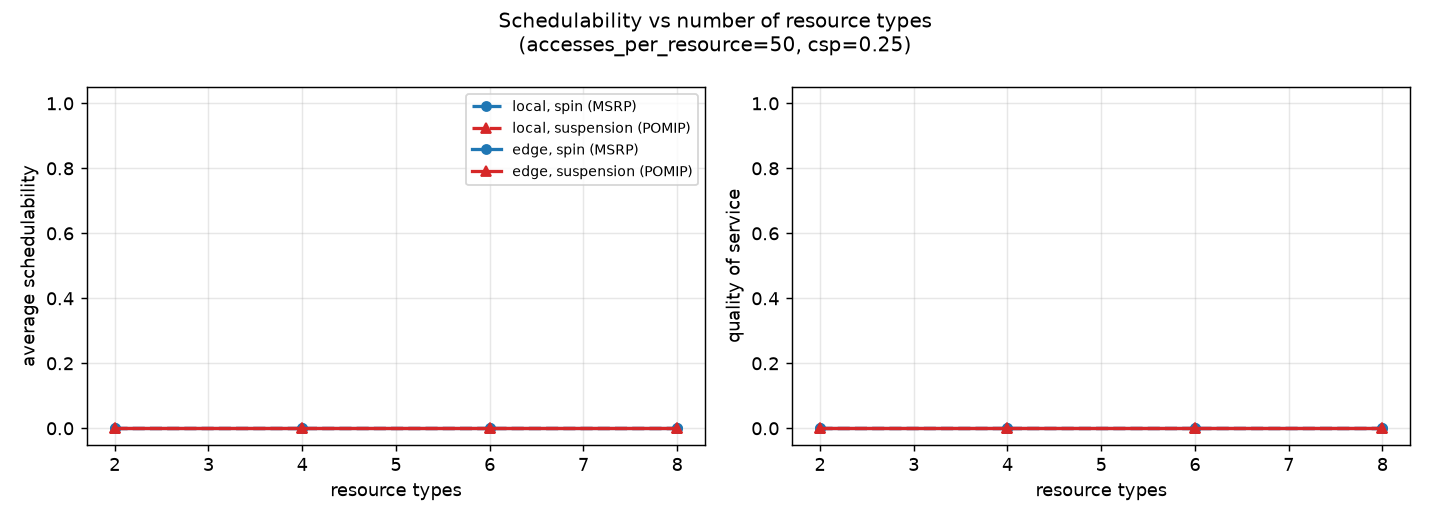
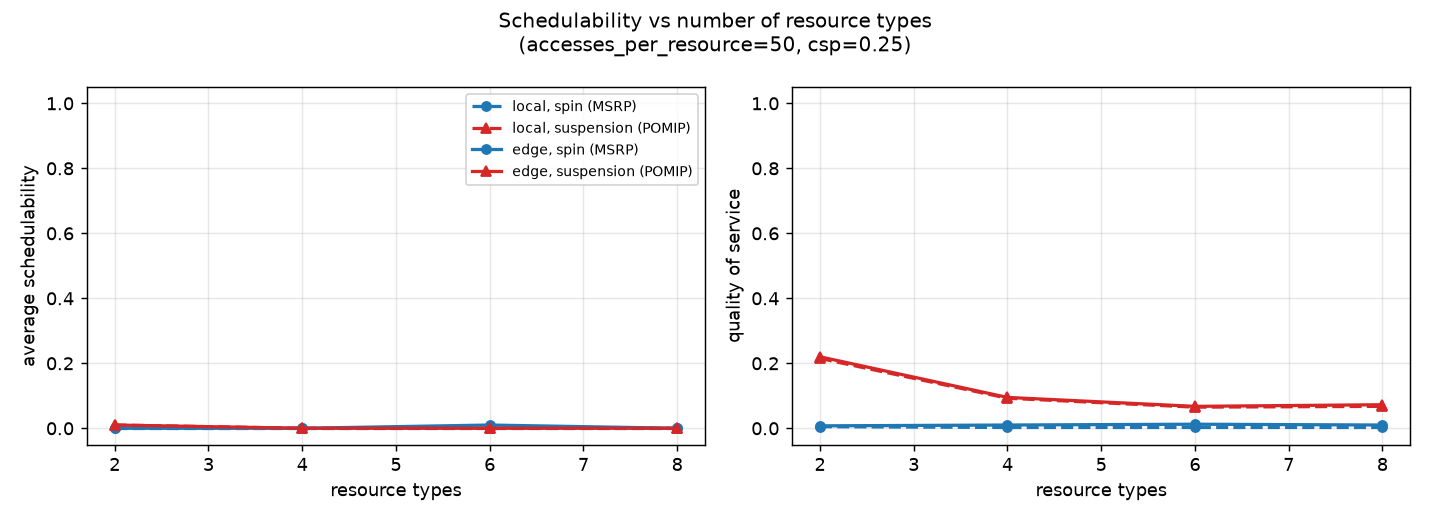
Fix the problems the audit confirmed
Four confirmed issues, and one that turned out not to be one.

Infeasible tasks reaching the scheduler. A task whose critical path is
longer than its deadline can never be scheduled: the path is a chain, so
no number of cores shortens it. At u_norm=0.5 this was 4.6% of tasks, and
every one was recorded as a scheduling failure when it was really a
broken input. The generator now redraws such a task -- graph shape and
the utilization split both move the critical path -- and raises if the
setting can never produce a feasible one, which the experiments count
separately. TaskSet.check asserts it too, so it cannot come back quietly.

Two charts pinned to zero. The bases for the resource-count and
task-count sweeps were far too harsh: every task in every set missed its
deadline, so both curves sat flat on zero and measured nothing. The new
diagnostics say exactly that -- no generation, allocation or mapping
failures, just 60/60 deadline misses. Recalibrated, both now separate the
protocols, and in opposite directions:

- resource types: spin stays flat while the POMIP bound falls, because
  holding requests-per-resource fixed means more types bring more total
  requests but less contention on each
- task count: spin gets worse and the POMIP bound gets better, because a
  fixed U split more ways makes tasks smaller and their locking rarer

Confounded sweeps. Three sweeps move a second variable along with the one
[…]

diff --git a/experiments.py b/experiments.py
@@ -72,6 +72,7 @@ class Sweep:
     values: list
     title: str
     base: dict = field(default_factory=dict)
+    confound: str = ""             # what else moves when this one does
 
     def apply(self, base: Config, scenario: Scenario, value) -> Config:
         return scenario.config(base, **{**self.base, self.key: value})
@@ -83,6 +84,12 @@ class Sweep:
             return ""
         return ", ".join(f"{k}={v}" for k, v in sorted(self.base.items()))
 
+    @property
+    def caption(self) -> str:
+        """Conditions plus any warning about what else this sweep moves."""
+        parts = [p for p in (self.conditions, self.confound) if p]
+        return "   ".join(parts)
+
 
 # Every chart the project definition asks for.
 SWEEPS = [
@@ -93,21 +100,36 @@ SWEEPS = [
           [10, 30, 50, 80, 150],
           "Schedulability vs requests per resource"),
 
-    # resource count only bites once there is enough locking to contend on
+    # Note the two effects pulling against each other here: with requests
+    # per resource held fixed, more resource types means more total
+    # requests but less contention on each one. Spin feels only the
+    # second, the POMIP bound sums over the first, which is why the two
+    # curves separate. At csp=0.25 every set missed its deadline and both
+    # curves sat flat on zero.
     Sweep("num_resources", "resource types", [2, 4, 6, 8],
           "Schedulability vs number of resource types",
-          {"accesses_per_resource": 50, "csp": 0.25}),
+          {"accesses_per_resource": 30, "csp": 0.15},
+          confound="NOTE: total requests = n_r x requests-per-resource"),
 
     Sweep("csp", "CSP", [0.1, 0.25, 0.5, 0.75, 1.0],
           "Schedulability vs critical-section share"),
 
-    # same reason: with light locking every task count passes
+    # U and the total request count are both fixed, so more tasks means
+    # smaller tasks that each lock less often. Spin gets worse (more tasks
+    # means more cores to queue behind) while the POMIP bound gets better
+    # (fewer requests per task), so the curves cross. At csp=0.25 both sat
+    # flat on zero.
     Sweep("num_tasks", "tasks", [4, 6, 8],
           "Schedulability vs number of tasks",
-          {"accesses_per_resource": 50, "csp": 0.25}),
+          {"accesses_per_resource": 20, "csp": 0.15, "num_resources": 2},
+          confound="NOTE: U and total requests fixed, so tasks get smaller"),
 
+    # U = m * U_norm is the definition the project gives, so adding cores
+    # adds load in the same breath. The chart cannot separate the two, and
+    # says so on its face rather than being read as "more cores is worse".
     Sweep("num_cores", "local cores m", [4, 8, 16, 32],
-          "Schedulability vs local core count"),
+          "Schedulability vs local core count",
+          confound="NOTE: U = m x U_norm, so total load rises with m"),
 
     # offloading only pays when communication is cheap enough to cross a
     # machine boundary, and only matters when the local machine is loaded
@@ -125,12 +147,27 @@ SWEEPS = [
 
 @dataclass
 class Point:
-    """One point on one line."""
+    """One point on one line, with what produced it.
+
+    The diagnostics are here so a flat or collapsing curve can be read:
+    a point at zero because nothing could be generated means something
+    quite different from a point at zero because every core was overloaded.
+    """
 
     value: float
     schedulability: float
     quality_of_service: float
     samples: int
+
+    generation_failures: int = 0     # the setting could not be built at all
+    allocation_failures: int = 0     # not enough cores for the heavy tasks
+    mapping_failures: int = 0        # some node found no core
+    deadline_misses: int = 0         # tasks over their deadline
+    unplaced_nodes: int = 0
+    offloaded: float = 0.0           # share of nodes placed on edge cores
+    heavy_tasks: float = 0.0         # mean heavy tasks per set
+    critical_path_ratio: float = 0.0  # mean L / D
+    comm_ratio: float = 0.0          # mean cost of one edge / D
 
 
 def run_point(base: Config, sweep: Sweep, scenario: Scenario, value,
@@ -144,20 +181,44 @@ def run_point(base: Config, sweep: Sweep, scenario: Scenario, value,
     scheduled = 0
     qos = 0.0
     samples = 0
+    point = Point(value, 0.0, 0.0, 0)
 
     for i in range(count):
         cfg = sweep.apply(base, scenario, value).copy_with(seed=base.seed + i)
         try:
             result = evaluate(cfg, scenario.protocol)
         except ValueError:
-            continue                      # this setting cannot be generated
+            # the setting itself cannot be built: not a scheduling failure,
+            # so it is counted separately rather than averaged in
+            point.generation_failures += 1
+            continue
+
         scheduled += result.schedulable
         qos += result.quality_of_service
         samples += 1
 
+        if result.allocation is not None and not result.allocation.feasible:
+            point.allocation_failures += 1
+        if not result.mapped:
+            point.mapping_failures += 1
+        point.unplaced_nodes += result.unplaced_nodes
+        point.deadline_misses += len(result.missed)
+        point.heavy_tasks += result.heavy_tasks
+        point.critical_path_ratio += result.critical_path_ratio
+        point.comm_ratio += result.comm_ratio
+        if result.nodes_total:
+            point.offloaded += result.nodes_on_edge / result.nodes_total
+
     if not samples:
-        return Point(value, 0.0, 0.0, 0)
-    return Point(value, scheduled / samples, qos / samples, samples)
+        return point
+
+    point.schedulability = scheduled / samples
+    point.quality_of_service = qos / samples
+    point.samples = samples
+    for field_name in ("offloaded", "heavy_tasks",
+                       "critical_path_ratio", "comm_ratio"):
+        setattr(point, field_name, getattr(point, field_name) / samples)
+    return point
 
 
 def run_sweep(base: Config, sweep: Sweep, count: int,
@@ -205,12 +266,20 @@ def run_all(base: Config, count: int = 100,
 
 def to_csv(results: Dict[str, Dict]) -> str:
     """Every number behind the charts, so the report can quote them."""
-    rows = ["chart,parameter,value,scenario,schedulability,qos,samples,conditions"]
+    rows = ["chart,parameter,value,scenario,schedulability,qos,samples,"
+            "conditions,gen_failures,alloc_failures,map_failures,"
+            "deadline_misses,unplaced_nodes,offloaded,heavy_tasks,"
+            "critical_path_ratio,comm_ratio"]
     for title, block in results.items():
         sweep = block["sweep"]
         for name, points in block["lines"].items():
             for p in points:
                 rows.append(f'"{title}",{sweep.key},{p.value},"{name}",'
                             f"{p.schedulability:.4f},{p.quality_of_service:.4f},"
-                            f'{p.samples},"{sweep.conditions}"')
+                            f'{p.samples},"{sweep.conditions}",'
+                            f"{p.generation_failures},{p.allocation_failures},"
+                            f"{p.mapping_failures},{p.deadline_misses},"
+                            f"{p.unplaced_nodes},{p.offloaded:.4f},"
+                            f"{p.heavy_tasks:.2f},{p.critical_path_ratio:.4f},"
+                            f"{p.comm_ratio:.4f}")
     return "\n".join(rows)

diff --git a/schedulability.py b/schedulability.py
@@ -41,6 +41,14 @@ class Result:
     unplaced_nodes: int = 0
     allocation: object = None                     # federated.Allocation, if any
 
+    # -- diagnostics: what the inputs looked like, not just the verdict --
+    nodes_total: int = 0
+    nodes_on_edge: int = 0
+    heavy_tasks: int = 0
+    critical_path_ratio: float = 0.0    # mean L / D over the tasks
+    comm_ratio: float = 0.0             # mean cost of one edge / D
+    tasks_total: int = 0
+
     @property
     def reason(self) -> str:
         """One line saying what went wrong, for the report."""
@@ -115,7 +123,35 @@ def test(taskset: TaskSet, mapper, analysis: ResourceAnalysis,
     result.schedulable = (mapper.succeeded
                           and not result.overloaded
                           and not result.missed)
+    _describe(taskset, allocation, result)
     return result
+
+
+def _describe(taskset: TaskSet, allocation, result: Result) -> None:
+    """Record what the input looked like, so a flat curve can be explained.
+
+    A verdict on its own cannot tell you whether a chart is flat because
+    the scheduling is hard or because the task sets were impossible from
+    the start.
+    """
+    ratios = []
+    comms = []
+
+    for task in taskset.tasks:
+        ratios.append(task.critical_path_length / task.deadline)
+        edges = [task.comm_cost(u, v) for u, v in task.graph.edges]
+        if edges:
+            comms.append(sum(edges) / len(edges) / task.deadline)
+
+        for node in task.real_nodes():
+            result.nodes_total += 1
+            if node.core_id is not None and taskset.core(node.core_id).is_edge:
+                result.nodes_on_edge += 1
+
+    result.tasks_total = len(taskset.tasks)
+    result.heavy_tasks = len(allocation.heavy) if allocation else 0
+    result.critical_path_ratio = sum(ratios) / len(ratios) if ratios else 0.0
+    result.comm_ratio = sum(comms) / len(comms) if comms else 0.0
 
 
 def evaluate(cfg, protocol: Protocol) -> Result:

diff --git a/generator.py b/generator.py
@@ -108,7 +108,32 @@ def _split_over_tasks(cfg: Config, node_counts: List[int],
 
 def _make_task(task_id: int, utilization: float, num_nodes: int,
                cfg: Config, rng: np.random.Generator) -> Task:
-    """Build one task graph with its node execution times."""
+    """Build one task graph, retrying until it is at least possible.
+
+    A task whose critical path is longer than its deadline can never be
+    scheduled: the path is a chain, so no number of cores shortens it.
+    Such a task says nothing about the scheduler, and counting it as a
+    scheduling failure would blame the analysis for the input.
+
+    The graph shape and the utilization split both move the critical path,
+    so drawing again usually fixes it. If it never does, the setting
+    itself is the problem and the caller is told so.
+    """
+    for _ in range(cfg.generation_attempts):
+        task = _draw_task(task_id, utilization, num_nodes, cfg, rng)
+        if task.critical_path_length <= task.deadline:
+            return task
+
+    raise ValueError(
+        f"task {task_id} (u={utilization:.2f}, {num_nodes} nodes) always came "
+        f"out with a critical path longer than its deadline after "
+        f"{cfg.generation_attempts} attempts: this utilization does not fit "
+        f"in this many nodes at these periods")
+
+
+def _draw_task(task_id: int, utilization: float, num_nodes: int,
+               cfg: Config, rng: np.random.Generator) -> Task:
+    """One attempt at building a task graph with its execution times."""
     graph = _make_graph(num_nodes, cfg.edge_prob, rng)
     sink_id = num_nodes + 1
 

diff --git a/model.py b/model.py
@@ -282,6 +282,11 @@ class TaskSet:
         for task in self.tasks:
             assert nx.is_directed_acyclic_graph(task.graph), "graph has a cycle"
 
+            # a chain longer than the deadline is impossible on any number
+            # of cores, so it must never reach the scheduler
+            assert task.critical_path_length <= task.deadline, \
+                f"task {task.id} has a critical path longer than its deadline"
+
             roots = [v for v in task.graph if task.graph.in_degree(v) == 0]
             leaves = [v for v in task.graph if task.graph.out_degree(v) == 0]
             assert roots == [task.source_id], "graph needs exactly one source"

diff --git a/charts.py b/charts.py
@@ -49,7 +49,7 @@ def draw_sweep(title: str, block: Dict, path: str) -> str:
     left.legend(fontsize=8, loc="best")
     # the chart must say what it was measured under, or the reader cannot
     # tell why two charts disagree about the same scenario
-    figure.suptitle(title + (f"\n({sweep.conditions})" if sweep.conditions else ""),
+    figure.suptitle(title + (f"\n({sweep.caption})" if sweep.caption else ""),
                     fontsize=11)
     figure.tight_layout()
     figure.savefig(path, dpi=130)

diff --git a/config.py b/config.py
@@ -48,6 +48,10 @@ class Config:
     # what balances them.
     cost_weights: tuple = (1.0, 1.0, 1.0)   # w1, w2, w3
 
+    # how many times to redraw a task whose critical path does not fit in
+    # its deadline before giving up on the setting entirely
+    generation_attempts: int = 20
+
     # federated scheduling: heavy tasks (u > 1) get their own dedicated
     # cluster of cores, light tasks share what is left. Turning this off
     # lets every task use every core, which is plain partitioning.
